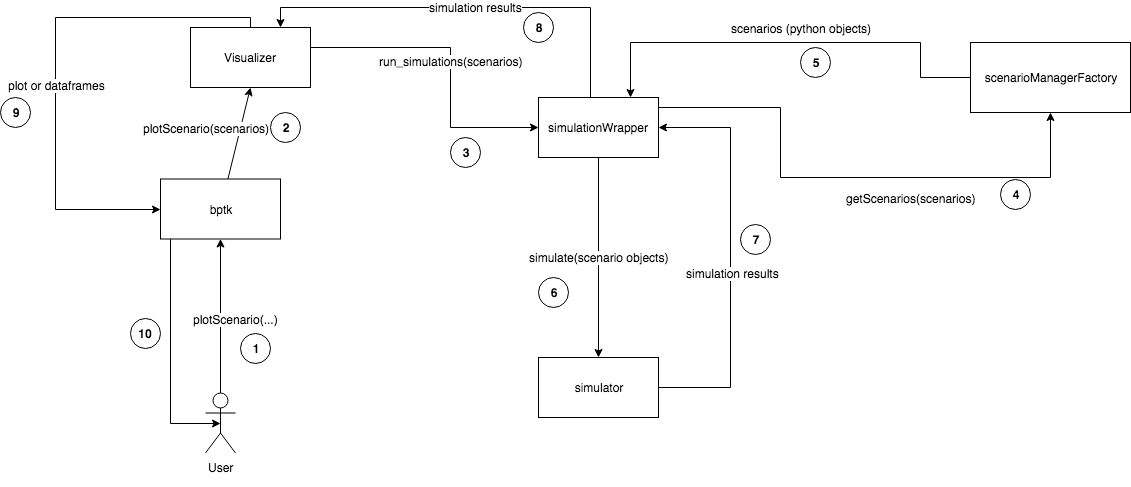
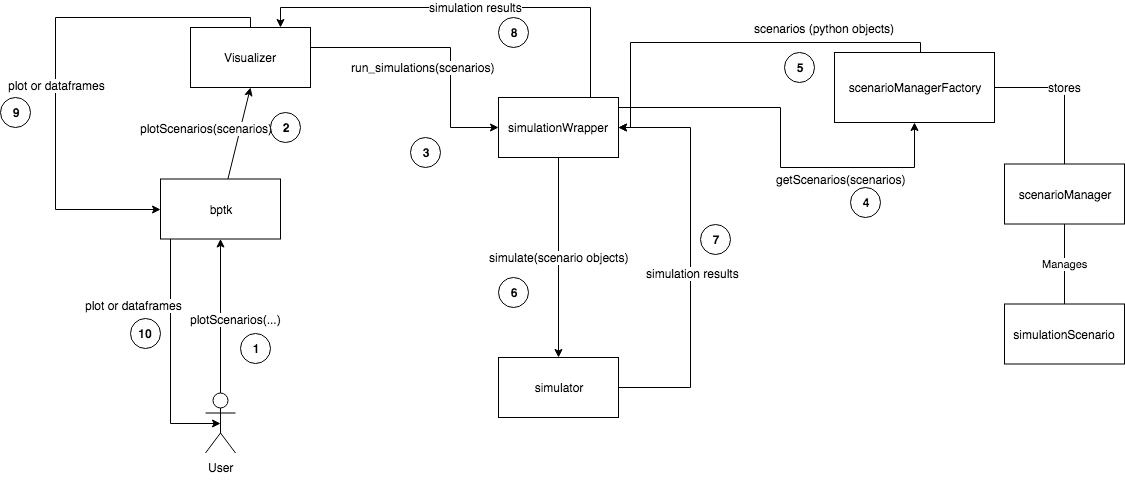
README

diff --git a/README.md b/README.md
@@ -87,9 +87,12 @@ Now you are ready to play around with the APIs!
 ## Plotting API
 After initializing BPTK_Py, let us dive into the plotting API, the heart of the simulation framework. An API exposes certain functionalities - "methods" or "functions" - for use by the actual application user.
 BPTK_Py aims at making simulation and result plotting as simple as possible. 
-This is why there is only one function that is doing everything for you: the ``plot_scenarios`` method.
+This is why there is only two functions that are doing everything for you: 
+* the ``plot_scenarios`` method for static plots (described here)
+* the ``dashboard`` method for interactive dashboards. All parameters ``plot_scenarios`` are valid for this one as well. For the special parameters of interactive plotting, see [Interactive Plotting](##Interactive Plotting).
 
-You may use it to generate plots from your simulation models almost instantly. You can control all major settings for the simulation and the later plot layout:
+You may use the API to generate plots from your simulation models almost instantly. 
+You can control all major settings for the simulation and the later plot layout using a large set of parameters:
 ```
 bptk.plot_scenarios(
     scenarios,
@@ -107,7 +110,8 @@ bptk.plot_scenarios(
     series_names={"series_to_rename":"rename_to"},return_df=False)
 
 ```
-The first plots one or multiple equations for one scenario ("scenario_name"). The scenario name is the one specified in the scenario JSON file. The other parameters are optional. Always use Python's list notations for the plural parameters (``scenario_names / equations / scenario_managers``).
+The first plots one or multiple equations for an arbitrary amount of scenarios. The scenario names are specified in the scenario JSON file. 
+The other parameters are optional. Always use Python's list notations for the plural parameters (``scenarios / equations / scenario_managers``).
 The second method lets you plot one equation for multiple scenarios and uses the same parameter set.
 
 * ``kind``: Kind of plot (area, line, bar, ...)
@@ -153,7 +157,8 @@ The tutorial contains some example code how to easily manipulate simulation resu
 
 ![plotting architecture](README/simulation_flow_drawio.png)
 
-The image shows the internal architecture and components involved in plotting a simulation. As you see, 5 components are directly involved in the plotting. 
+The image shows the internal architecture and components involved in plotting a simulation. 
+As you see, 5 components are directly involved in the plotting. 
 
 In the beginning, the user issues a "plotScenario(..)" call with the known parameters (please see how to exactly use the API in the next steps). 
 The ``bptk`` object simply forwards this request to the ``Visualizer``. 
@@ -166,15 +171,17 @@ It comes with neat features like generating timeseries data from your simulation
 
 The ``simulationWrapper`` handles the simulations for each scenario. At this stage, the scenarios are only given with their names. 
 Hence, the simulator has to get the actual data that the ``scenarioManagerFactory`` read from the JSON files (step 4). 
-The scenarioManagerFactory also instantiates the simulation models from the model files and makes sure to transpile the Stella Architect models into Python. 
-In a sense, it is the manager of the scenarioManagers, which group the actual scenarios. After looking up the scenarios, it returns these to the simulationWrapper (step 5). 
+On the right side we denoted the hierarchy of the ``scenarioManager`` and ``simulationScenario``. 
+The factory is at the top level and loads the JSON files and creates the scenario Managers. 
+
+The scenario Manager  instantiates the simulation models from the model files and makes sure to transpile the Stella Architect models into Python. 
+In a sense, it is the manager of the scenarioManagers, which group the actual scenarios. After looking up the scenarios, the factory returns these to the simulationWrapper (step 5). 
 Finally, the simulations start for each scenario using the model simulator and are returned to the simulationWrapper (steps 6 and 7). 
 The results are routed back to the Visualizer (step 8, keep in mind: Actually via bptk but omitted for readability). 
 Finally, the Visualizer generates the time series data, the plots and formats them (step 9). 
 The output goes back to ``bptk`` and the user gets to see a plot - or a dataFrame if she used the ``return_df`` flag - step 10.
 
-You see that this is a very simple architecture and due to the decoupling of functionality and components, easy to extend.
-
+You see that this is a very simple architecture and due to the decoupling of functionality and components from the API calls, easy to extend.
 
 ## Interactive Plotting
 An important part of modelling is to modify values on-the-fly, interactively with the customer. The API call ``bptk.plot_with_widgets`` has this functionality. 
@@ -285,19 +292,20 @@ The ``model`` parameter contains the (relative) path to the (python) simulation 
 Then the key ``base_constants`` may follow. It defines the initial state for all models, regardless the state in the model source file. 
 Here you can set all constants to a desired state. 
 Each scenario stores the same values for the given constants. For example, in this example we set "initialOpenTasks" to 80.
-The actual scenarios follow in the ``scenarios`` tag.
+In this case, define ``base_constants`` for the scenario manager in exactly one file, not in multiple. 
+In case the base constants stretch over multiple files, ``bptk_py`` attempts to merge them and data loss may occur due to duplicate values for the same constants.
+The actual scenarios follow after the ``scenarios`` tag. If you define scenarios for one scenario manager over multiple files, this is O.K. and increases readability for the user.
 For each scenario, you have to supply a unique name as well. JSON does not support integer keys. 
 The ``constants`` list stores the overrides constants. 
-We use this field is that you override certain base constants given before. 
-The scenario "base" sets "initialOpenTasks" to 100. This value is only valid for this specific scenario. The other values like "deadline" will be the same as the base constants, as there is no overrid. "scenario80" does not override any constants and hence use all base constants. 
+The constants override certain base constants given before. 
+The scenario "base" sets "initialOpenTasks" to 100. This value is only valid for this specific scenario. 
+The other values such as "deadline" stay the same as the base constants, as there is no overrid. "scenario80" does not override any constants and hence use all base constants. 
 You may either define numerical values such as ``0.5`` or use strings to define expressions such as ``"5/10"``which will be evaluated to ``0.5`` by the framework.
-
 
 You should consider using the ``source`` field in the scenario manager tag. It specifies the (relative) path to the original model file of 3rd party applications. 
 For now, the framework supports automatic conversion of .itmx/.stmx files from Stella Architect. 
 For each source file, a file monitor will run in background to check for changes in the source model. 
-The file monitor will automatically update the python model file whenever a change to the source model is detected! 
-(See next section for more details)
+The file monitor will automatically update the python model file whenever a change to the source model is detected. 
 
 
 ### Changing scenario files during runtime
@@ -313,47 +321,36 @@ unexpected results.
 You may have defined graphical functions within Stella Architect but a scenario may change these if you want. 
 Internally, a graphical function is nothing else but a set of points and values. 
 Hence, you may easily modify these points using the scenario JSON file. 
-All you need is the name of the graphical function, e.g. ``'capabilities.learningCurve'`` and the set of points for the function 
+All you need is the name of the graphical function, e.g. ``'productivity'`` and the set of points for the function 
 with their respective x and y values as list: `` [x,y] ``.
 The following lines show how to set a new graphical function:
 
-```
-{
-"ScenarioManager1": {
-    "model": "simulation_models/model",
-    "source": "simulation_models/make_your_startup_grow.itmx",
-    "scenarios": {
-        "MakeYourStartUpGrow_2": {
-            "constants": {
-                "cost.paymentTransactionCost": 0.5,
-                "cost.productDevelopmentWage": 10000
-                }
-                "points":{
-                    'capabilities.learningCurve':
-                    [
-                        [0,1], [1,2], [2,3], [3,4]
-                    ]
-                    }
-            }
+```JSON
+...
+"scenarios": {
+      "base": {},
+      "scenario100": {
+        "constants": {
+          "initialOpenTasks": 100
+        },
+        "points" : {
+            "productivity": [ [0,0.4],[0.25,0.444],[0.5,0.506],[0.75,0.594],[1,1],[1.25,1.119],[1.5,1.1625],[1.75,1.2125],[2,1.2375],[2.25,1.245],[2.5,1.25] ]
         }
-    }
-}
+      }
 
 ```
 
-Now we defined four points for the function. The simulator will make sure to interpolate the values if an equation 
-requires the y-value for decimal x values.
+The simulator makes sure to interpolate the values if an equation requires the y-value for x values not defined in the function.
 
 ## Monitoring of 3rd party source models
 For now, we are able to translate Stella Architect Models to python using transentis' [sd-compiler](https://bitbucket.org/transentis/sd-compiler).
-Whenever you instantiate a `bptk`` object and plot at least one scenario, one thread per ``sourceModel`` will monitor the scource ITMX file if the scenario specifies a ``source`` field. It checks for modifications each second. Whenever a modification is detected, a bash script will be called that executes the transpiler.
+Whenever you instantiate a ``bptk`` object and plot at least one scenario, one thread per ``sourceModel`` monitors the scource ITMX file if the scenario specifies a ``source`` field. 
+It checks for modifications each second. 
+Whenever a modification is detected, a bash script will be called that executes the transpiler.
 
-For this to work, make sure you set the parameter ``sd_py_compiler_root`` to the absolute path of the transpiler's root directory in [BPTK_Py/config/config.py](BPTK_Py/config/config.py), e.g. ``sd_py_compiler_root = "~/Code/sd-compiler/"``
-
-The simple bash script calling the transpiler lies in [BPTK_Py/shell_scripts/update_model.sh](BPTK_Py/shell_scripts/update_model.sh). 
-It takes the transpiler path and the relative path of the simulation models as taken from the scenario config's ``sourceModel`` field and executes the parser once.
-
-**Attention:** If you use the BPTK engine within a larger software project, please do not forget to issue ``bptk.destroy()``. This command stops all monitoring threads. If you don't use it, don't be surprised if your script never terminates ;-). If you're using BPTK within a framework such as the infamous [Jupyter Lab](https://jupyter.org/), do not worry. 
+**Attention:** If you use the BPTK engine within a larger software project, please do not forget to issue ``bptk.destroy()``. This command stops all monitoring threads. 
+If you don't use it, don't be surprised if your script never terminates ;-). 
+If you're using BPTK within a framework such as the infamous [Jupyter Lab](https://jupyter.org/), do not worry. 
 The thread runs within the Notebook kernel and will die when you shutdown the notebook kernel. 
 
 ## Model Checking
@@ -382,7 +379,11 @@ bptk.model_check(df["productivity"],check_function,message="Productivity is not 
 ```
 
 ## Strategy simulation
-The simulator is also able to simulate various strategies. A strategy defines which constants change at which point in time of the simulation. For defining a strategy, use the ``strategy`` key in your scenario definition and give (key,value) sets for the constants you'd like to change. Note that the ``constants`` field in the strategy will also be parsed at ``t=0`` for initial modifications of the strategies.
+An important feature of ``BPTK_Py`` is the ability to simulate various strategies. 
+A strategy defines which constants to change at which point in time of the simulation. 
+
+For defining a strategy, use the ``strategy`` key in your scenario definition and give (key,value) sets for the constants you'd like to change. 
+Note that the base constants and scenario constants are valid until the first modification by the strategy.
 ```
 "strategy": {
     "1": {
@@ -407,7 +408,8 @@ The simulator is also able to simulate various strategies. A strategy defines wh
     }
 }
 ```
-This strategy modifies the constants ``cost.paymentTransactionCost`` and ``customers.marketingBudget`` at time steps 1, 2, 50 and 76. The full scenario for this strategy is available in [scenarios/make_your_startup_grow_with_strategy.json](scenarios/make_your_startup_grow_with_strategy.json). To apply a strategy for a scenario, use the parameter ``strategy=True``. 
+This strategy modifies the constants ``cost.paymentTransactionCost`` and ``customers.marketingBudget`` at time steps 1, 2, 50 and 76. 
+To apply a strategy for a scenario, use the parameter ``strategy=True`` in the API. 
 
 **Note:** If you set the ``strategy=True`` but there is not strategy defined in the scenario, the simulator will just issue a Warning in the logfile and execute the simulation(s) without a strategy. 
 
